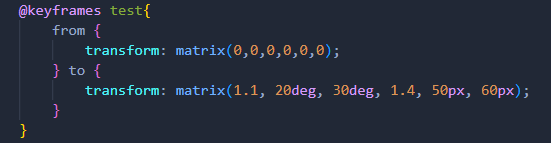
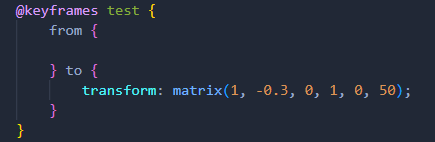
2 modals done

diff --git a/Animacje/style.css b/Animacje/style.css
@@ -273,9 +273,10 @@
             color: var(--danger);
         }
 
-        div[id^="modalContent"] > img{
+        img {
             border: 1px solid var(--border-muted);
             border-radius: 1rem;
+            margin: 1em
         }
 
         div[id^="modalContent"]  li{
@@ -336,6 +337,42 @@
         }
 
         .translateBox li > div[class*="Square"] {
+            align-self: center;
+        }
+
+        .scaleBox li {
+            display: flex;
+        }
+
+        .scaleBox li > .mergeBox {
+            width: 50%;
+        }
+
+        .scaleBox li > div[class*="Square"] {
+            align-self: center;
+        }
+
+        .skewBox li {
+            display: flex;
+        }
+
+        .skewBox li > .mergeBox {
+            width: 50%;
+        }
+
+        .skewBox li > div[class*="Skew"] {
+            align-self: center;
+        }
+
+        .matrixBox li {
+            display: flex;
+        }
+
+        .matrixBox li > .mergeBox {
+            width: 50%;
+        }
+
+        .matrixBox li > div[class*="matrix"] {
             align-self: center;
         }
 
@@ -460,6 +497,59 @@
                 transform: translate3d(0px,0px,0px);
             } to {
                 transform: perspective(100px) translate3d(10vw, 15px, -100px);
+            }
+        }
+
+        @keyframes scale {
+            from {
+                background-color: yellow;
+            } to {
+                transform: scale(1.3, 1.3);
+                background-color: red;
+            }
+        }
+
+        @keyframes scaleX {
+            from {
+                background-color: yellow;
+            } to {
+                transform: scaleX(1.3);
+                background-color: red;
+            }
+        }
+
+        @keyframes scaleY {
+            from {
+                background-color: yellow;
+            } to {
+                transform: scaleY(1.3);
+                background-color: red;
+            }
+        }
+
+        @keyframes scaleZ {
+            from {
+                background-color: yellow;
+            } to {
+                transform: scaleZ(1.3);
+                background-color: red;
+            }
+        }
+
+        @keyframes scale3D {
+            from {
+                background-color: yellow;
+            } to {
+                transform: scale3d(1.3, 1.3, 10) rotate3d(1,1,0,30deg);
+                background-color: red;
+            }
+        }
+
+        @keyframes matrix {
+            from {
+
+            } to {
+                transform: matrix(1.1, -0.3, 1.1, 1, 50, 0);
             }
         }
 

diff --git a/getting_ss.html b/getting_ss.html
@@ -7,9 +7,9 @@
     <style>
         @keyframes test {
             from {
-                transform: translateZ(0px);
+                transform: scale(0)
             } to {
-                transform: perspective(200px) translateZ(-200px);
+                transform: scale(1.1)
             }
         }
 
@@ -17,7 +17,15 @@
             width: 50px;
             height: 50px;
             background-color: black;
-            animation: test 5s 1 2s;
+            animation: matrix 5s 1 2s;
+        }
+
+        @keyframes test {
+            from {
+
+            } to {
+                transform: matrix(1, -0.3, 0, 1, 0, 50);
+            }
         }
     </style>
 </head>

diff --git a/Animacje/index.html b/Animacje/index.html
@@ -64,7 +64,7 @@
                     <span id="closeBtn2">&#10006</span>
                 </div>
                 <div id="modalContent2">
-                    
+
                 </div>
                 </div>
             </div>
